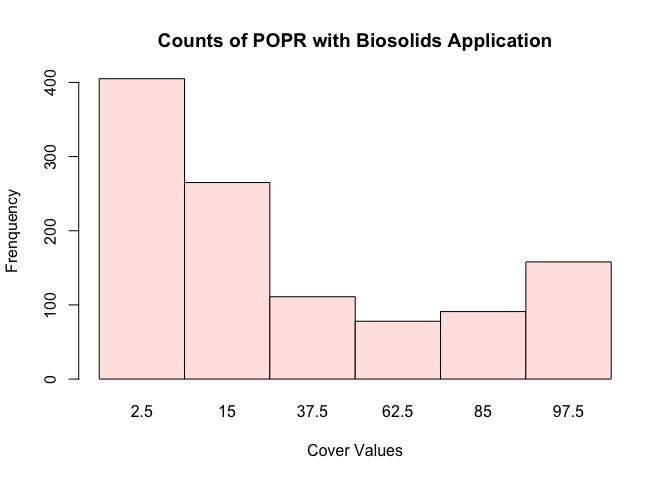
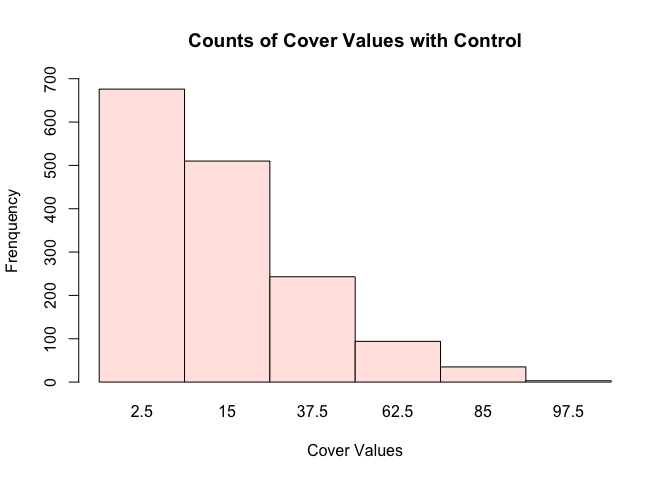
minor changes

diff --git a/Rscript/initial_soil_script.md b/Rscript/initial_soil_script.md
@@ -360,11 +360,11 @@ LONG TERM IMPACTS OF BIOSOLIDS ON PLANT COVER
     ##  2.5   15 37.5 62.5   85 97.5 
     ##  676  510  243   94   35    3
 
-    barplot(table_sum$Biosolids, space = 0, xlab = "Cover Values", ylab = "Frenquency", main = "Counts of POPR with Biosolids Application", col = "mistyrose")
+    barplot(table_sum$Control, space = 0, ylim = c(0,700),xlab = "Cover Values", ylab = "Frenquency", main = "Counts of Cover Values with Control", col = "mistyrose")
 
 ![](initial_soil_script_files/figure-markdown_strict/unnamed-chunk-7-1.png)
 
-    barplot(table_sum$Control, space = 0, xlab = "Cover Values", ylab = "Frenquency", main = "Counts of POPR with Control", col = "mistyrose")
+    barplot(table_sum$Biosolids, space = 0, ,ylim = c(0,700), xlab = "Cover Values", ylab = "Frenquency", main = "Counts of Cover Values with Biosolids", col = "mistyrose")
 
 ![](initial_soil_script_files/figure-markdown_strict/unnamed-chunk-7-2.png)
 
@@ -374,6 +374,7 @@ LONG TERM IMPACTS OF BIOSOLIDS ON PLANT COVER
 
     # for subset POPR
     pc.subset <- subset(pc, Species == "POPR")
+
     table_sum_POPR <- tapply(pc.subset$Cover.value,pc.subset$Treatment, table)
     table_sum_POPR
 
@@ -387,7 +388,14 @@ LONG TERM IMPACTS OF BIOSOLIDS ON PLANT COVER
     ## 2.5  15 
     ##   4   1
 
-    ggplot(aes(x = Block, y = Cover.value, group = Treatment, colour = Treatment), data = pc.subset)+stat_summary(fun.y="mean", geom = "line")+labs(x = "Block", y = "Plant Cover Value", title = "Change in Cover Value of POPR over Different Blocks")
+    pc.subset <- pc.subset[ ,c(3,4,9)]
+    by_blockTrt <- group_by(pc.subset, Block, Treatment)
+    dat.avg<-summarise(by_blockTrt, y.avg=sum(Cover.value)/50)
+    add2control <- c("2","Control",0)
+    dat.avg[8, ] <- add2control
+
+    dat.avg$y.avg <- as.numeric(dat.avg$y.avg)
+    ggplot(aes(x = Block, y = y.avg, group = Treatment, colour = Treatment), data = dat.avg) + geom_point() + geom_line() + labs(x = "Block", y = "Plant Cover Value", title = "Change in Cover Value of POPR over Different Blocks")
 
 ![](initial_soil_script_files/figure-markdown_strict/unnamed-chunk-7-4.png)
 
@@ -410,11 +418,8 @@ LONG TERM IMPACTS OF BIOSOLIDS ON PLANT COVER
 
     # not quite normal, heavy right tail
 
-    pc_sub <- pc.subset[ ,c(3,4,5,9)]
-    acf(pc_sub)
-
-![](initial_soil_script_files/figure-markdown_strict/unnamed-chunk-8-4.png)
-
+    #pc_sub <- pc.subset[ ,c(3,4,5,9)]
+    #acf(pc_sub)
     # no multicolinearity within explnatory variables
 
     # Residuals are checked in the next section after imposing linear model.
